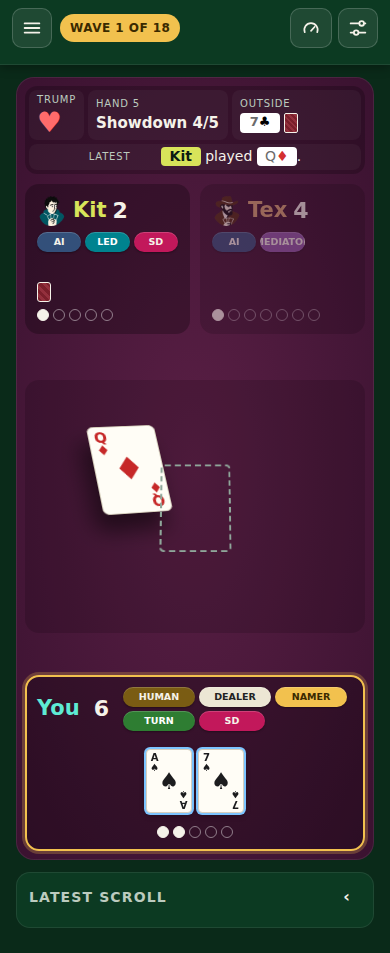
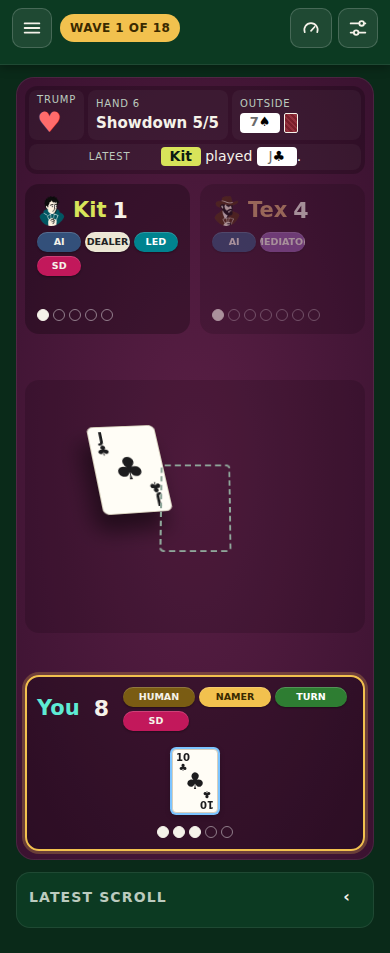
v3: show zero scores; center the action buttons; drop left-hand mode
Scores of 0 show again. The action buttons sit centered at the bottom
of the play area, primary action on the right. Left-hand mode and its
mockup view are removed.

Claude-Session: https://claude.ai/code/session_01QkpazkapUFZWg4SWZB1dDA

diff --git a/mockups/advanced3.js b/mockups/advanced3.js
@@ -142,8 +142,7 @@ const css = `
 .kpile .card .cat{position:absolute;left:15%;top:10%;width:70%;height:80%;fill:#000;opacity:.5}
 /* Action buttons: bottom of the play area, right-justified (primary action rightmost, Pass to its left).
    Left-hand mode (a future setting) mirrors it: bottom left, primary action leftmost. */
-.center > .pile-act{position:absolute;bottom:10px;right:12px;z-index:9;flex-direction:row-reverse}
-html.lefthand .center > .pile-act{right:auto;left:12px;flex-direction:row}
+.center > .pile-act{position:absolute;bottom:10px;left:50%;transform:translateX(-50%);z-index:9;flex-direction:row-reverse}
 .pile-act{display:flex;gap:8px}.pile-act .btn{font-size:15px;padding:8px 18px}
 .outpile{position:relative;width:var(--kw);height:calc(var(--kw)*1.4)}
 .outpile .card{position:absolute;left:0;top:0;--w:var(--kw);box-shadow:0 2px 4px rgba(0,0,0,.4)}
@@ -322,7 +321,6 @@ for (const id of ['seat1', 'seat2', 'seat0']) {
   const sc = $('#' + id + ' .score'); if (!sc) continue;
   const row = sc.closest('.score-row'), name = $('#' + id + ' .seat-name');
   sc.classList.add('sscore'); name.after(sc);
-  if (parseInt(sc.textContent, 10) === 0) sc.style.visibility = 'hidden';
   if (row && !row.children.length) row.remove();
 }
 
@@ -352,7 +350,7 @@ for (const tr of $$('.summary table.stats tbody tr, .summary table.stats tr')) {
   for (const b of btns) pa.appendChild(b);
   if (!pa.children.length) pa.remove();
   const bar = $('.me .actionbar'); if (bar) bar.style.display = 'none'; }
-if (window.__leftHand) document.documentElement.classList.add('lefthand');
+
 // Calls (Accepts ♥, Names ♥) are toasts, not seat bubbles: the game already toasts them. Pass bubbles stay.
 for (const b of $$('.seat .bubble.call, .me .bubble.call')) {
   const seat = b.closest('.seat, .me'), who = (($('.seat-name', seat) || {}).textContent || '').trim();

diff --git a/mockups/phases.js b/mockups/phases.js
@@ -52,9 +52,6 @@ const TARGETS = [
     // A second discard view: both bots have discarded, so the outside pile holds 6.
     const d = snaps.find(x => x.name === '1-discard');
     if (d) snaps.push({ ...d, name: '1b-discard-bots-done', vars: { ...d.vars, outside: 6 } });
-    // Left-hand mode (a future setting): the round 1 bid, mirrored action buttons.
-    const b1 = snaps.find(x => x.name === '5-bid1');
-    if (b1) snaps.push({ ...b1, name: '5b-bid1-lefthand', vars: { ...b1.vars, leftHand: true } });
     for (const { name, html, vars } of snaps) {
       for (const [w, h, tag] of [[1280, 860, 'desktop'], [390, 844, 'phone']]) {
         for (const collapsed of tag === 'phone' ? [true] : [false, true]) {
